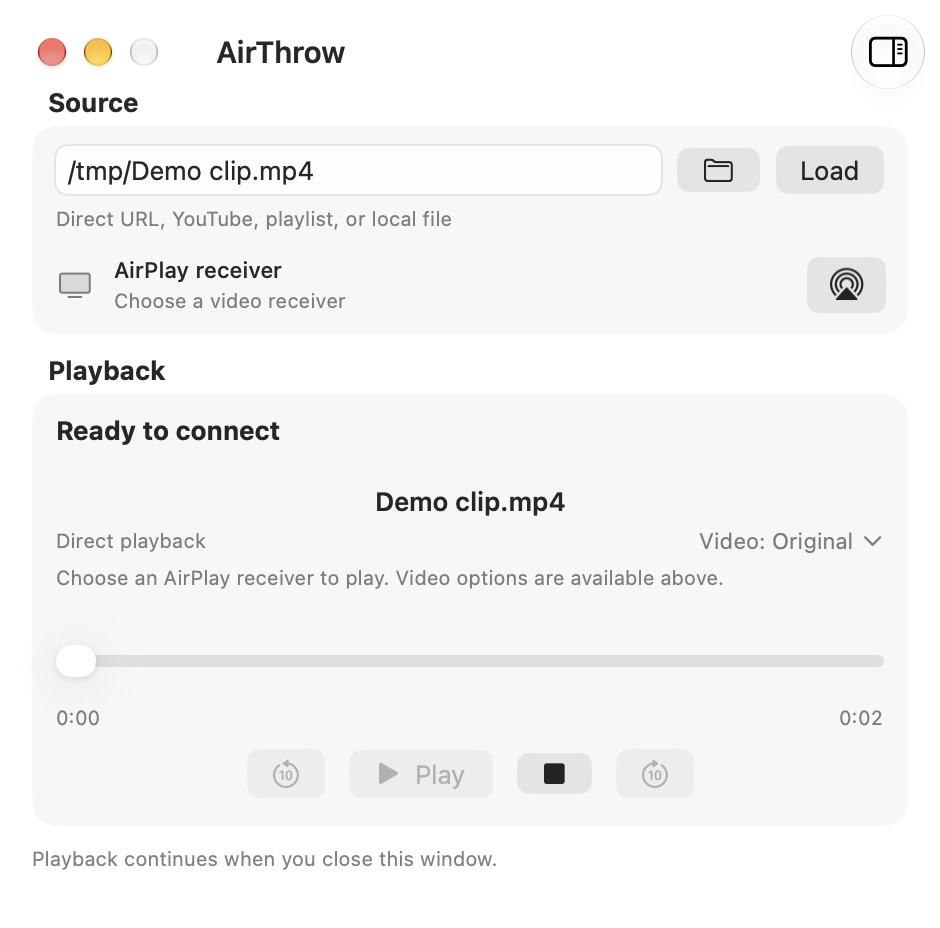
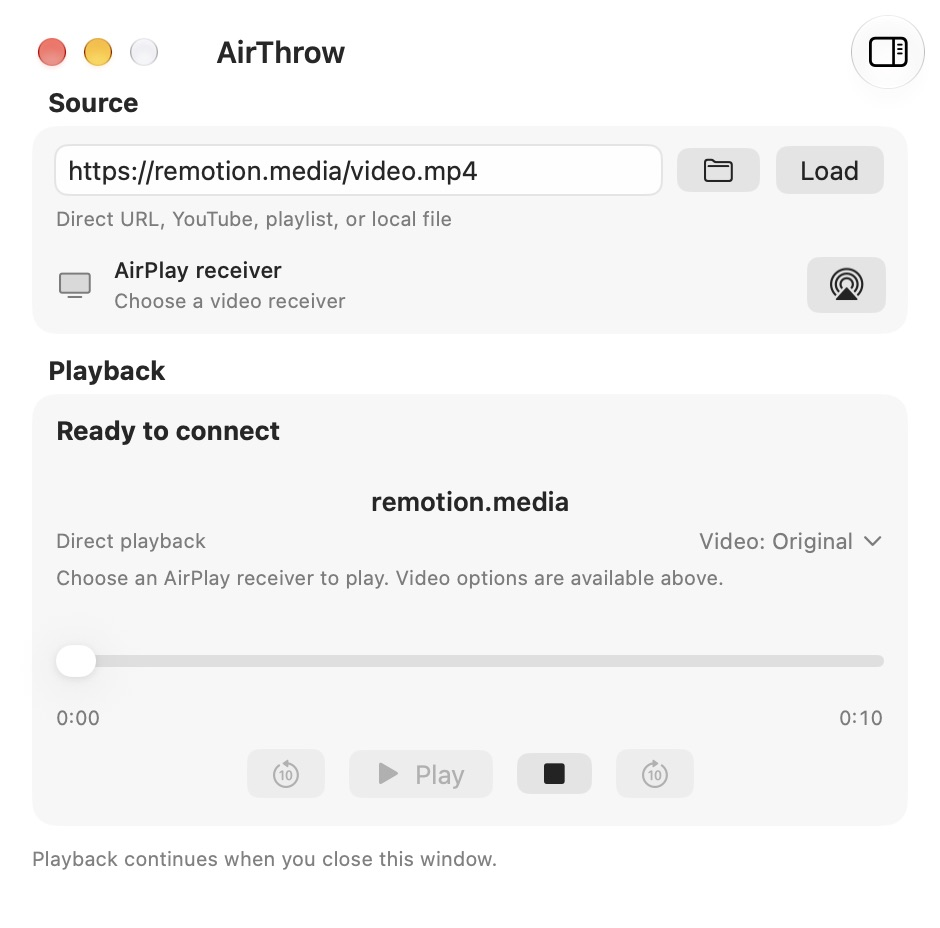
Show a remote video URL in the README screenshot

Changed region(s): [[0.0617, 0.1562, 0.5245, 0.2188], [0.4011, 0.5312, 0.617, 0.5625], [0.8947, 0.75, 0.9255, 0.7812]]

diff --git a/README.md b/README.md
@@ -17,7 +17,7 @@ AirPlay receivers. A compact native Mac app controls playback without mirroring
 your screen.
 
 <p align="center">
-  <img src="docs/images/controller.jpg" width="470" alt="AirThrow with a video loaded, ready to choose an AirPlay receiver">
+  <img src="docs/images/controller.jpg" width="470" alt="AirThrow with a Remotion sample video URL loaded, ready to choose an AirPlay receiver">
 </p>
 
 - **Links and files** — direct video URLs, website streams, local videos and playlists.
